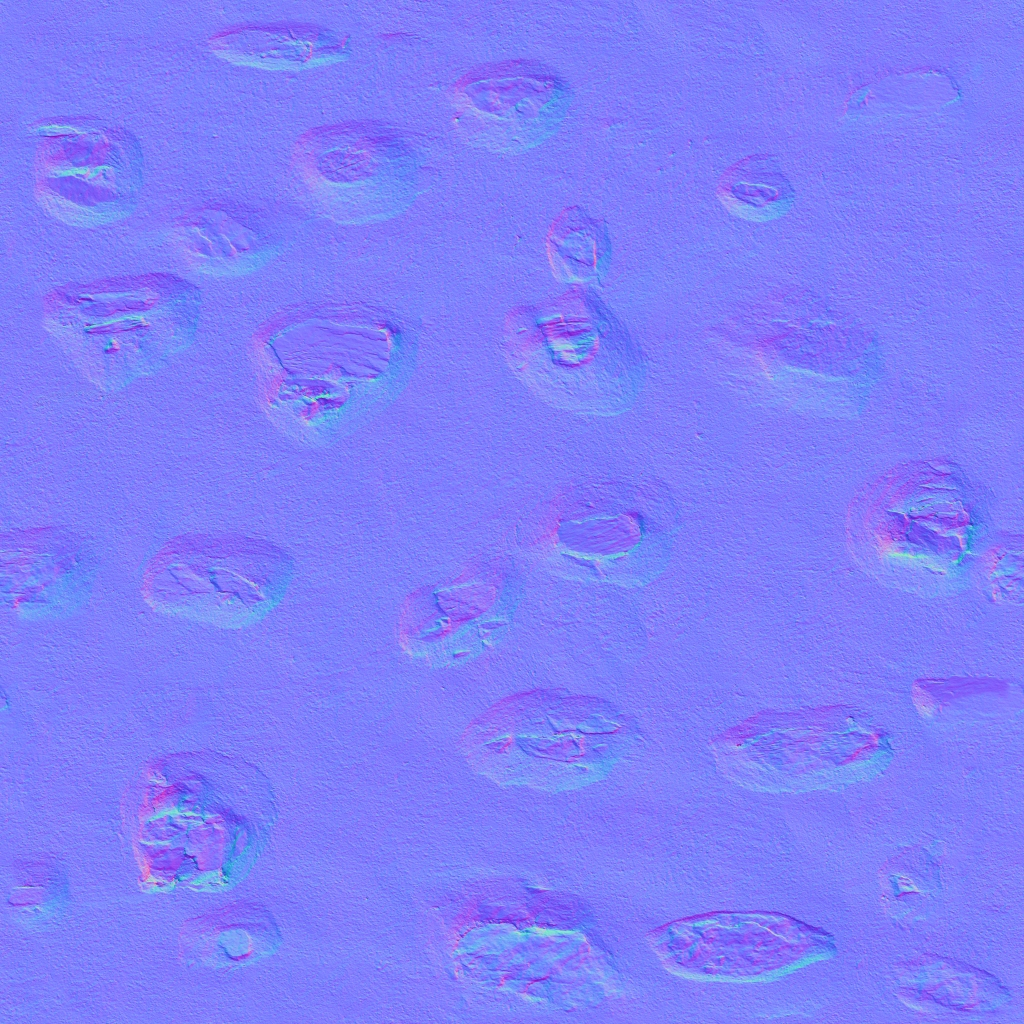
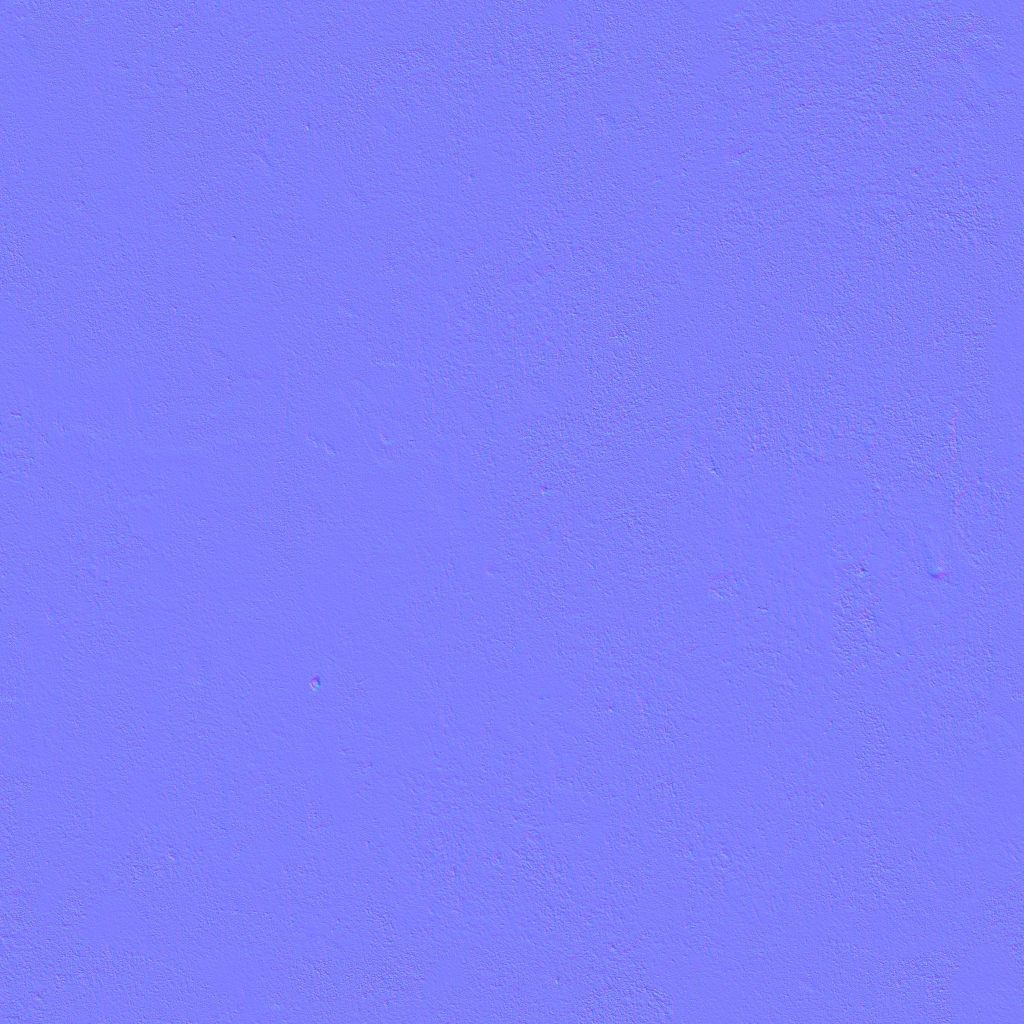
Build 272: path-traced baked light for the Yard, plain plaster walls
Claude-Session: https://claude.ai/code/session_012yvb9Zh1jGZMBeWaSw4hhX

diff --git a/index.html b/index.html
@@ -460,7 +460,7 @@ const RDCAM={on:false,off:new THREE.Vector3()},_rq1=new THREE.Quaternion(),_rq2=
 const wrapA=a=>{if(!Number.isFinite(a))return 0;if(a>20||a<-20)a%=Math.PI*2;while(a>Math.PI)a-=Math.PI*2;while(a<-Math.PI)a+=Math.PI*2;return a;};   // (Build 189) a huge angle used to loop forever (past ~1e16, subtracting 2π changes nothing) and froze the game
 let seed=1337; const srand=()=>{seed=(seed*16807)%2147483647;return (seed-1)/2147483646;};
 const Y_AXIS=V(0,1,0);
-const BUILD=271;
+const BUILD=272;
 let REV_OUT=+(new URLSearchParams(location.search).get('revout')||.62);
 const LIFE_OFF=/[?&]nolife/.test(location.search);const BRAWN_ON=!/[?&]nobrawn/.test(location.search),BRAWN_K={A:.8,B:.3,C:.55,D:.12};   // (Build 253) see brawnInit
 const WSHIFT=!/[?&]nowshift/.test(location.search);let WS_P=+(new URLSearchParams(location.search).get('wsp')||.045),WS_R=+(new URLSearchParams(location.search).get('wsr')||.035);
@@ -961,7 +961,7 @@ const _lpS=[];function lightPool(){const c=camera.position;_lpS.length=0;
   _lpS.sort((a,b)=>a._r-b._r);
   for(let i=0;i<LPOOL.length;i++){const P=LPOOL[i],L=_lpS[i];if(!L){P.intensity=0;continue;}
     const fade=i<LPOOL.length-2?1:i===LPOOL.length-2?.66:.33;   // the last slots dim, so a light changing hands far off doesn't pop
-    P.position.copy(L.position);P.color.copy(L.color);P.distance=L.distance;P.decay=L.decay||1.7;P.intensity=L.intensity*fade;}}
+    P.position.copy(L.position);P.color.copy(L.color);P.distance=L.distance;P.decay=L.decay||1.7;P.intensity=L.intensity*fade*(AMBX.L&&AMBX.L.fire!=null?AMBX.L.fire:1);}}   /* (Build 272) a preset can say how much a flame lights in its daylight: braziers were painting the Yard's shaded walls orange at noon */
 
 // house: plaster or stone walls with a real oak frame standing proud of the plaster (posts, rails, studs, braces), a stone plinth,
 // framed windows with mullions, thick thatch or tiled roof slabs with a ridge, a chimney with a cap
@@ -4451,6 +4451,25 @@ MATS.sand=std({map:TX.sand,bumpMap:TX.sandb,bumpScale:2.5,roughness:1});
 {const l=limestoneMaps(1024);TX.lime=tex(l.map);TX.limen=tex(l.normal,false);}
 MATS.gravel=std({map:TX.gravel,normalMap:TX.graveln,normalScale:new THREE.Vector2(1.2,1.2),roughness:1});MATS.roadDirt=std({map:TX.gravel,normalMap:TX.graveln,normalScale:new THREE.Vector2(1.4,1.4),color:0xa08a6c,roughness:1});
 /* (Build 270) the Yard rebuilt from scans: plaster over stone for the walls, packed earth with gravel blended in, weathered timber, boards and old tiles */
+/* ==== baked light (Build 272): a map's indirect light, path traced offline (tools/lab/bake) into a grid of ambient cubes and read here in place of the flat sky fill. The sun and its shadows stay live. */
+const NOBAKE=/[?&]nobake/.test(location.search),BAKE_U={uBk:{value:null},uBkOn:{value:0},uBkMin:{value:new THREE.Vector3()},uBkInv:{value:new THREE.Vector3(1,1,1)},uBkNY:{value:24},uBkGain:{value:+((location.search.match(/[?&]bk=([\d.]+)/)||[])[1]||1)},uBkSC:{value:4},uBkOpen:{value:1}},BAKE_TEX={};
+function bakeMat(mat){if(!mat||mat.userData.bk)return mat;mat.userData.bk=1;const prev=mat.onBeforeCompile,pk=mat.customProgramCacheKey;
+  mat.onBeforeCompile=(sh,r)=>{if(prev)prev.call(mat,sh,r);Object.assign(sh.uniforms,BAKE_U);
+    sh.vertexShader='varying vec3 vBkW;\n'+sh.vertexShader.replace('#include <worldpos_vertex>','#include <worldpos_vertex>\nvBkW=(modelMatrix*vec4(transformed,1.)).xyz;');
+    sh.fragmentShader=`precision highp sampler3D;uniform sampler3D uBk;uniform float uBkOn,uBkNY,uBkGain,uBkSC,uBkOpen;uniform vec3 uBkMin,uBkInv;varying vec3 vBkW;
+vec3 bkS(vec3 q,float k){vec3 t=texture(uBk,vec3(q.x,q.z,(k*uBkNY+clamp(q.y*uBkNY,.5,uBkNY-.5))/(6.*uBkNY))).rgb;return t*t*uBkSC;}
+vec3 bkIrr(vec3 P,vec3 n){vec3 q=clamp((P-uBkMin)*uBkInv,0.,1.);vec3 w=n*n;return w.x*bkS(q,n.x>0.?0.:1.)+w.y*bkS(q,n.y>0.?2.:3.)+w.z*bkS(q,n.z>0.?4.:5.);}
+`+sh.fragmentShader.replace('#include <lights_fragment_begin>',`#include <lights_fragment_begin>
+  float bkW=0.;vec3 bkE=vec3(0.);
+  if(uBkOn>.5){vec3 bn=normalize(inverseTransformDirection(geometryNormal,viewMatrix));vec3 bq=(vBkW-uBkMin)*uBkInv;vec3 be=min(bq,1.-bq);bkW=smoothstep(0.,.03,min(be.x,be.z))*step(bq.y,1.15);
+    bkE=bkIrr(vBkW+bn*.28,bn)*uBkGain;irradiance=mix(irradiance,bkE,bkW);}`).replace('#include <lights_fragment_maps>',`#include <lights_fragment_maps>
+  iblIrradiance*=1.-bkW;radiance*=mix(1.,clamp(dot(bkE,vec3(.3333))/uBkOpen,0.,1.),bkW);`);};
+  mat.customProgramCacheKey=()=>'bk|'+mat.uuid+'|'+(pk?pk.call(mat):'');mat.needsUpdate=true;return mat;}
+function bakeLoad(b){BAKE_U.uBkOn.value=0;if(!b||NOBAKE)return;const key=mapKey,set=t=>{if(key!==mapKey)return;BAKE_U.uBk.value=t;BAKE_U.uBkMin.value.set(...b.min);BAKE_U.uBkInv.value.set(1/b.size[0],1/b.size[1],1/b.size[2]);BAKE_U.uBkNY.value=b.n[1];BAKE_U.uBkSC.value=b.sc;BAKE_U.uBkOpen.value=b.open||1;BAKE_U.uBkOn.value=1;};
+  if(BAKE_TEX[b.f])return set(BAKE_TEX[b.f]);const im=new Image();im.onload=()=>{const [NX,NY,NZ]=b.n,cv=document.createElement('canvas');cv.width=im.width;cv.height=im.height;const cx=cv.getContext('2d',{willReadFrequently:true});cx.drawImage(im,0,0);
+    const src=cx.getImageData(0,0,im.width,im.height).data,D=6*NY,out=new Uint8Array(NX*NZ*D*4),cols=b.cols||12;
+    for(let L=0;L<D;L++){const c=L%cols,r=(L/cols)|0;for(let z=0;z<NZ;z++){const so=((r*NZ+z)*im.width+c*NX)*4;out.set(src.subarray(so,so+NX*4),(L*NZ+z)*NX*4);}}
+    const t=new THREE.Data3DTexture(out,NX,NZ,D);t.format=THREE.RGBAFormat;t.type=THREE.UnsignedByteType;t.minFilter=t.magFilter=THREE.LinearFilter;t.wrapS=t.wrapT=t.wrapR=THREE.ClampToEdgeWrapping;t.unpackAlignment=1;t.needsUpdate=true;BAKE_TEX[b.f]=t;set(t);};im.src=b.f;}
 const YARD2=!/[?&]oldyard/.test(location.search),YARD_U={uRock:{value:null},uHasRock:{value:0},uDirt:{value:null},uHasDirt:{value:0}};
 MATS.yardPlaster=std({map:TX.lime,color:0xd8ccb6,roughness:.95});MATS.yardGround=std({map:TX.gravel,roughness:1});MATS.yardTimber=std({color:0x8a7a68,roughness:.9});MATS.yardBoards=std({color:0x8c8072,roughness:.9});MATS.yardTile=std({color:0x9a6a52,roughness:.9});
 MATS.lime=std({map:TX.lime,normalMap:TX.limen,normalScale:new THREE.Vector2(1.1,1.1),roughness:.95,side:THREE.DoubleSide});
@@ -4480,13 +4499,11 @@ function weather(m,kind){const pre=m.onBeforeCompile;m.onBeforeCompile=(sh,r)=>{
       diffuseColor.rgb=mix(diffuseColor.rgb,vec3(rl*rl*2.6)*vec3(.7,.62,.53),gp*uHasRock*.85);diffuseColor.rgb*=1.-.16*smoothstep(.7,.8,gn)*(1.-gp);
       float cr=smoothstep(.5,.47,abs(wn(vWW.xz*1.3+90.)-.5)*8.+wn(vWW.xz*14.)*.6)*smoothstep(.55,.7,wfbm(vWW.xz*.13+3.));diffuseColor.rgb*=1.-.3*cr;
       float damp=smoothstep(.6,.82,wfbm(vWW.xz*.16+50.));diffuseColor.rgb*=1.-.16*damp;
-      float wd=17.2-max(abs(vWW.x),abs(vWW.z));diffuseColor.rgb*=mix(.55,1.,smoothstep(-.1,1.5,wd))*mix(.86,1.,smoothstep(1.,4.5,wd)); }`:kind==='yardwall'?`#include <map_fragment>
-    { float h=vWW.y;vec2 wp=vec2(vWW.x+vWW.z,vWW.y);diffuseColor.rgb=mix(vec3(dot(diffuseColor.rgb,vec3(.3,.5,.2))),diffuseColor.rgb,.7);diffuseColor.rgb*=mix(.72,1.1,wfbm(wp*.3))*mix(.9,1.06,wfbm(wp*1.7+9.));
-      float pat=smoothstep(.68,.73,wfbm(wp*.42+70.)+.14*wn(wp*4.));diffuseColor.rgb=mix(diffuseColor.rgb,diffuseColor.rgb*diffuseColor.rgb*vec3(.86,.8,.72)*1.3,pat*.7);   /* where the plaster has come away the stone and old mortar show darker */
-      float dr=smoothstep(.4,.8,wn(vec2(wp.x*1.3,3.)))*smoothstep(.6,5.,h)*(.3+.7*wn(vec2(wp.x*9.,h*.35)));diffuseColor.rgb=mix(diffuseColor.rgb,diffuseColor.rgb*vec3(.42,.39,.35),dr*.75);   /* rain runs down from under the hoarding */
-      float fine=smoothstep(.62,.9,wn(vec2(wp.x*26.,h*.9)))*smoothstep(1.,4.6,h);diffuseColor.rgb*=1.-.22*fine;
-      float base=smoothstep(2.6,.2,h)*(.4+.6*wfbm(wp*1.3));diffuseColor.rgb=mix(diffuseColor.rgb,diffuseColor.rgb*vec3(.5,.46,.4),base*.8);   /* splashed and damp at the foot */
-      diffuseColor.rgb*=1.2*mix(1.,.6,smoothstep(3.6,4.9,h))*mix(.62,1.,smoothstep(0.,.45,h)); }`:kind==='ground'?`#include <map_fragment>
+      float wd=17.2-max(abs(vWW.x),abs(vWW.z));diffuseColor.rgb*=mix(.8,1.,smoothstep(-.1,1.2,wd)); }`:kind==='yardwall'?`#include <map_fragment>
+    { float h=vWW.y;vec2 wp=vec2(vWW.x+vWW.z,vWW.y);diffuseColor.rgb*=mix(.86,1.06,wfbm(wp*.22))*mix(.95,1.04,wfbm(wp*1.3+9.));   /* (Build 272) a plain limewashed plaster: broad uneven tone, thin rain runs under the hoarding, damp and splashed earth at the foot */
+      float dr=smoothstep(.5,.85,wn(vec2(wp.x*1.1,3.)))*smoothstep(.8,4.8,h)*(.35+.65*wn(vec2(wp.x*7.,h*.3)));diffuseColor.rgb=mix(diffuseColor.rgb,diffuseColor.rgb*vec3(.6,.57,.52),dr*.5);
+      float fine=smoothstep(.7,.95,wn(vec2(wp.x*22.,h*.6)))*smoothstep(2.,4.8,h);diffuseColor.rgb*=1.-.12*fine;
+      float base=smoothstep(1.5,.1,h)*(.4+.6*wfbm(wp*1.3));diffuseColor.rgb=mix(diffuseColor.rgb,diffuseColor.rgb*vec3(.62,.55,.45),base*.7); }`:kind==='ground'?`#include <map_fragment>
     { float big=wfbm(vWW.xz*.07),mid=wfbm(vWW.xz*.45+11.),r=length(vWW.xz);
       diffuseColor.rgb*=mix(.74,1.12,big)*mix(.88,1.07,mid);diffuseColor.rgb=mix(diffuseColor.rgb,diffuseColor.rgb*vec3(.86,.8,.72),smoothstep(.55,.8,big)*.5);   // damp, darker brown patches
       float trod=smoothstep(14.,3.,r)*(.5+.5*wn(vWW.xz*.9));diffuseColor.rgb*=1.-.14*trod;   // the middle is packed down by feet
@@ -4503,12 +4520,13 @@ function weather(m,kind){const pre=m.onBeforeCompile;m.onBeforeCompile=(sh,r)=>{
   sh.uniforms.uWBase={value:0};sh.fragmentShader='uniform float uWBase;\n'+sh.fragmentShader;if(kind==='yardground'){Object.assign(sh.uniforms,YARD_U);sh.fragmentShader='uniform sampler2D uRock,uDirt;uniform float uHasRock,uHasDirt;\n'+sh.fragmentShader;}};
   const k0=m.customProgramCacheKey?m.customProgramCacheKey():'';m.customProgramCacheKey=()=>k0+'|w'+kind;return m;}
 for(const k of ['lime','limeDark','stone','stoneLight','ashlar','beam','plaster0','plaster1','plaster2','woodPale','wood','tile'])if(MATS[k])weather(MATS[k],'wall');
-weather(MATS.yardGround,'yardground');MATS.yardGround.envMapIntensity=.5;weather(MATS.yardPlaster,'yardwall');for(const k of ['yardTimber','yardBoards','yardTile'])weather(MATS[k],'wall');
+weather(MATS.yardGround,'yardground');for(const k of ['yardPlaster','yardGround','yardTimber','yardBoards','yardTile','stone','beam','woodPale','propWood'])if(MATS[k])setTimeout(()=>bakeMat(MATS[k]),0);
+MATS.yardGround.envMapIntensity=.5;weather(MATS.yardPlaster,'yardwall');for(const k of ['yardTimber','yardBoards','yardTile'])weather(MATS[k],'wall');
 for(const k of ['gravel','sand'])if(MATS[k]){weather(MATS[k],'ground');MATS[k].envMapIntensity=.5;}   /* (Build 269) less sky fill on the fighting floor, so the sun's shadows are dark and hard-edged on it */
 weather(MATS.meadow,'meadow');
 // photo-scanned surfaces (CC0, Poly Haven; see CREDITS.md). They replace the drawn ones as they arrive; if they can't load, the drawn ones stay.
 // Each set is colour, normal and a packed map (red = ambient occlusion, green = roughness). rep = tiles per unit of the geometry's UVs.
-const PHOTO={yardwall:{mats:{yardPlaster:{rep:.36,ns:2.2,col:0xfff8ee}}},yardwood:{mats:{yardTimber:{rep:.7,ns:1.3,col:0xa59684}}},yardboard:{mats:{yardBoards:{rep:.55,ns:1.2,col:0xb4a898}}},yardroof:{mats:{yardTile:{rep:.5,ns:1.4,col:0xd8c8bc}}},
+const PHOTO={yardwall:{mats:{yardPlaster:{rep:.3,ns:1.,col:0xf6eedc}}},yardwood:{mats:{yardTimber:{rep:.7,ns:1.3,col:0xa59684}}},yardboard:{mats:{yardBoards:{rep:.55,ns:1.2,col:0xb4a898}}},yardroof:{mats:{yardTile:{rep:.5,ns:1.4,col:0xd8c8bc}}},
   ground:{mats:{gravel:{rep:4,ns:1.3,col:0xece6dc},yardGround:{rep:4,ns:1.9,col:0xf6f2ea}}},
   plaster:{mats:{plaster0:{rep:.75,ns:1.1,col:0xf4ecdc},plaster1:{rep:.75,ns:1.1,col:0xf0d8ae},plaster2:{rep:.75,ns:1.1,col:0xd8d2c6}}},   // village houses (rep: the geometry's UV unit / the scan's real size)
   timber:{mats:{beam:{rep:3,ns:1.2,col:0x6a5644},wood:{rep:2,ns:1.1,col:0xb09a82},woodPale:{rep:2,ns:1.1,col:0xd2c4b0},propWood:{rep:2,ns:1.1,col:0xa88a6c},palisade:{rep:3,ns:1.2,col:0x6e5c4c}}},thatch:{mats:{thatch:{rep:1.5,ns:1.4,col:0xe6c088},cryptStraw:{rep:1,ns:1.6,col:0xf0d088}}},
@@ -4796,11 +4814,11 @@ LIGHTS.mill={fog:0x2c261e,dens:.008,top:0x3f6fae,mid:0x8fb0cf,hor:0xe2d6bf,glow:
 LIGHTS.crypt={fog:0x1a120b,dens:.042,top:0x050404,mid:0x050404,hor:0x050404,glow:0x000000,glowDir:[0,1,0],stars:0,hs:0x566482,hg:0x15171c,hi:.055,sun:0x000000,si:0,dir:[.2,.9,.2],moon:false,exp:1.3,cool:.62,halo:.16,shR:10,shMap:1024,
   env:[[0,'#060505'],[.5,'#100c0a'],[1,'#050404']]};
 LIGHTS.cryptDeep={...LIGHTS.crypt,fog:0x0a0e16,dens:.036,hs:0x5c6a86,hg:0x12141a,hi:.065,cool:.9,env:[[0,'#06080c'],[.5,'#0c1018'],[1,'#040506']]};
-LIGHTS.yard={...LIGHTS.day,hs:0xb9c6d2,hg:0xcabfae,hi:.6,sun:0xfff3e2,si:4.9,cool:.22,exp:1.04,fog:0xd9d6cf};   /* (Build 271) the Yard's own daylight: a whiter sun, far less of the orange grade, and the pale ground's light thrown back up under the hoarding and onto the lower walls */
+LIGHTS.yard={...LIGHTS.day,hs:0xb9c6d2,hg:0xcabfae,hi:.6,sun:0xfff3e2,si:4.9,cool:.22,exp:1.04,fog:0xd9d6cf,fire:.06};   /* (Build 271) the Yard's own daylight: a whiter sun, far less of the orange grade, and the pale ground's light thrown back up under the hoarding and onto the lower walls */
 for(const k in LIGHTS)LIGHTS[k].envTex=makeEnv(LIGHTS[k].env);
 const MAPS={
   village:{name:'Bloodmoor village',build:()=>buildWorld(),MAP:74,arena:0,zoneR:80,spawn:[6,52],spacing:11,lootR:66,loot:44,fighters:12,light:'dusk'},
-  arena:{shR:26,entry:{x:0,z:-15.8,dx:0,dz:1},name:'The Yard',build:()=>buildYard(),MAP:17,arena:0,zoneR:24,spawn:[3,11],spacing:4.5,lootR:12,loot:16,fighters:8,light:YARD2?'yard':'day'},
+  arena:{shR:26,entry:{x:0,z:-15.8,dx:0,dz:1},name:'The Yard',build:()=>buildYard(),MAP:17,arena:0,zoneR:24,spawn:[3,11],spacing:4.5,lootR:12,loot:16,fighters:8,light:YARD2?'yard':'day',bake:YARD2?{f:'assets/bake/arena.png',min:[-19.2,.1,-19.2],size:[38.4,9.6,38.4],n:[96,24,96],cols:12,sc:4,open:.65}:null},
   colosseum:{shR:40,entry:{x:0,z:-31,dx:0,dz:1},name:'The Arena',build:()=>buildArena(),MAP:44,arena:33.4,zoneR:37,spawn:[4,28],spacing:7.5,lootR:30,loot:24,fighters:10,light:'day'},
   tavern:{shR:36,entry:{x:0,z:-10.2,dx:0,dz:1},name:'The Tavern',build:()=>buildTavern(),MAP:16,arena:0,zoneR:30,spawn:[1.5,8],spacing:2.8,lootR:11,ceil:5.6,loot:0,fighters:8,light:'tavern',brawl:true},
   ship:{entry:{x:-17,z:0,dx:1,dz:0},name:'Mutiny',build:()=>buildShip(),MAP:50,arena:0,zoneR:30,spawn:[1,8],spacing:3,lootR:17,loot:18,fighters:8,light:'sea',noRing:true,spot:(i,n,k)=>[(-15+30*(shipSlot(i,n)+.5)/n)+(Math.random()-.5)*(k>100?2:.8),(Math.random()-.5)*(k>100?5:3.2)]},
@@ -4820,7 +4838,7 @@ function applyLighting(k){
   hemi.color.setHex(L.hs);hemi.groundColor.setHex(L.hg);hemi.intensity=L.hi;moon.color.setHex(L.sun);moon.intensity=L.si;moon.shadow.autoUpdate=L.si>0;moon.shadow.needsUpdate=true;moonDir.set(...L.dir).normalize();moonSprite.visible=L.moon;
   renderer.toneMappingExposure=L.exp*1.2;scene.environment=L.envTex;grade.uniforms.uCool.value=L.cool;haloMat.opacity=L.halo;
 }
-function loadMap(id){const m=MAPS[id];curMap=id;mapKey++;if(LAMP_SH)LAMP_SH.visible=id==='crypt';clearWorld();MAP=m.MAP;ARENA_R=m.arena;m.build();dynWorld();applyLighting(m.light);buildMinimap();}
+function loadMap(id){const m=MAPS[id];curMap=id;mapKey++;if(LAMP_SH)LAMP_SH.visible=id==='crypt';clearWorld();MAP=m.MAP;ARENA_R=m.arena;m.build();dynWorld();applyLighting(m.light);bakeLoad(m.bake);buildMinimap();}
 
 // ================================================================ effects (blood, decals, sparks, embers)
 const BLOOD_N=1800;
@@ -13403,6 +13421,6 @@ window.__clientData=clientData;window.__net={netSnap,clientFrame};window.__grabT
 window.__fdetail=(f,dt)=>fighterDetail(f,dt);window.__addWound=(B,ci,P,ax,d,k)=>addWound(B,ci,P,ax,d,k);Object.defineProperty(window,'__camMode',{get:()=>camMode,configurable:true});Object.defineProperty(window,'__grid',{get:()=>grid,configurable:true});window.__camClear=(a,b)=>{camPull=1;camClear(a,b,1/60);return camPull;};window.__frameFn=t=>{window.__inManual=true;try{frame(t);}finally{window.__inManual=false;}};
 window.__yardArm=(f,i)=>yardArm(f,i);window.__yardCycle=()=>yardCycle();window.__YARD=YARD;window.__YARD_W=YARD_W;Object.defineProperty(window,'__RUN',{get:()=>RUN,configurable:true});
 window.__relook=(f,look)=>{const pal=f.pal;f.model.parent.remove(f.model);f.model=SkeletonUtils.clone(GLTF.scene);f.model.scale.multiplyScalar(FSCALE);f.root.add(f.model);f.mats=[];f.look=look;dressModel(f.model,look,pal,f.mats);f.bones=indexBones(f.model);f.skins=[];f.model.traverse(o=>{if(o.isSkinnedMesh)f.skins.push(o);});f.mixer=new THREE.AnimationMixer(f.model);const clip=n=>GLTF.animations.find(a=>a.name===n);f.acts={idle:f.mixer.clipAction(clip('idle')),walk:f.mixer.clipAction(clip('walk')),run:f.mixer.clipAction(clip('run'))};for(const k in f.acts){const a=f.acts[k];a.play();a.setEffectiveWeight(k==='idle'?1:0);}};
-window.__game={makePool,addDecal,WH,wheelOpen,wheelClose,wheelSel,aimMove:(a,b)=>aimMove(a,b),cryptBuild:(d,sd)=>{CRYPT_DEPTH=d;CRYPT_SEED=sd;loadMap('crypt');return CRYPT;},heldLid:f=>heldLid(f),get AMBX(){return AMBX},get RAIN(){return RAIN},dentArmor:(...a)=>dentArmor(...a),get DYN(){return DYN},get RP(){return RP},hsHit:(...a)=>hsHit(...a),get PF_P(){return PF_P},get HS_P(){return HS_P},ladderClimb:(f,d)=>ladderClimb(f,d),collide:(...a)=>collide(...a),addBox:(...a)=>addBox(...a),testLoot:(id,x,z)=>{const def=WEAPONS[id],s=new Sword(def);s.reset(V(x,.05,z),V(1,0,0));s.edge.set(0,0,1);s.free=true;s.age=0;freeSwords.push(s);const it={kind:"weapon",def,sword:s,halo:null};loot.push(it);return it;},cryptKickDoor:(...a)=>cryptKickDoor(...a),cryptCeil:(...a)=>cryptCeil(...a),findLedge,skelDress,zombieDress,speak,skeletonParts,skullGeo,shroudGeo,shroudMat,get CRYPT(){return CRYPT},cryptTrapOpen,cryptGround,bark,get camMode(){return camMode},LAMPS,lampAdd,lampTake,lampStep,cryptUse,cryptDescend,cryptLeave,cryptOpen,cryptPlan,get LAMP_SH(){return LAMP_SH},get CAREER(){return CAREER},set CAREER(v){CAREER=v},careerUI,careerSave,careerRank,CAREER_RANKS,CAREER_SHOP,NAV,navPath,navClear,navBlocked,navBuild,get mxBad(){return MX_BAD},skinRay,capBones,get warmMs(){return warmShaders.ms},get latheFixed(){return lathe.fixed||0},HANDLING,roadDir,roadX,roadUse,get ROAD(){return ROAD},__road:()=>ROAD&&ROAD.cart,get world(){return world},MATS,raidChests,raidUse,raidCarts,cartPt,ladderUse,LADDERS,ladPt,wallAhead,get RAID(){return RAID},raidScore,setStum(a,b){STUM_MAX=a;STUM_RELIEF=b},setWind(k){WIND_K=k},setRL(a,b){RL1=a;RL2=b},setSW2(a,b){SW2_OUT=a;SW2_UP=b},setThr(a,b,c,d){THR_LEAN=a;THR_EXT=b;if(c!=null)LUNGE_V=c;if(d!=null)THR_K=d},THREE,aimMove,hsBindRel,HS_SEG,get HSW(){return HSW},HS_P,hsFreeAll,setHS(v){HSBODY=v;if(!v)hsFreeAll();},embed,lodge,letGo,garbLegStep,get MILL(){return MILL},groundY,millGround,millSluice,flourBlast,swayStep,dynBreak,SHARDS,sting,get SHIP(){return SHIP},vilProps:{trough,hay,streetTorch,fence,cart,stall},Sword,DYN,dynLoad,dynStep,get PRW(){return PRW},PROX,mdl,placeModel,propBreak,bridgeCollapse,initAudio,musicTick,MUS,THEMES,decals,bloodMesh,updateBlood,spawnBlood,shipWave,get SEA(){return seaMat},TOWER,towerIgnite,towerCollapse,RUBBLE,houseCollapse,get SHIP(){return SHIP},shipIn,TAV,get HOUSES(){return HOUSES},get SCAF(){return SCAF},FLOORS,houseIgnite,houseCollapse,get mapDirty(){return mapDirty},get master(){return master},get AC2(){return AC},AMB,get AC(){return AC},clientEvents,resolveHit,clash,armourGap,PROPS,get PIT(){return PIT},grateKick,MUS,KICK,get MODEHUD(){return MODEHUD},get END(){return END},get RUN(){return RUN},NET,PT,EV,get PW(){return PW},get physOn(){return !!PW},camera,input,loadMap,spawnMatch,V,fighters,debris,loot,scene,renderer,composer,torchLights,sim,logic,WEAPONS,ARMOR,pickUp,spawnWeaponLoot,spawnArmorLoot,get player(){return player},startGame,zone,get state(){return state}};
+window.__game={get world(){return world;},get moonDir(){return moonDir;},makePool,addDecal,WH,wheelOpen,wheelClose,wheelSel,aimMove:(a,b)=>aimMove(a,b),cryptBuild:(d,sd)=>{CRYPT_DEPTH=d;CRYPT_SEED=sd;loadMap('crypt');return CRYPT;},heldLid:f=>heldLid(f),get AMBX(){return AMBX},get RAIN(){return RAIN},dentArmor:(...a)=>dentArmor(...a),get DYN(){return DYN},get RP(){return RP},hsHit:(...a)=>hsHit(...a),get PF_P(){return PF_P},get HS_P(){return HS_P},ladderClimb:(f,d)=>ladderClimb(f,d),collide:(...a)=>collide(...a),addBox:(...a)=>addBox(...a),testLoot:(id,x,z)=>{const def=WEAPONS[id],s=new Sword(def);s.reset(V(x,.05,z),V(1,0,0));s.edge.set(0,0,1);s.free=true;s.age=0;freeSwords.push(s);const it={kind:"weapon",def,sword:s,halo:null};loot.push(it);return it;},cryptKickDoor:(...a)=>cryptKickDoor(...a),cryptCeil:(...a)=>cryptCeil(...a),findLedge,skelDress,zombieDress,speak,skeletonParts,skullGeo,shroudGeo,shroudMat,get CRYPT(){return CRYPT},cryptTrapOpen,cryptGround,bark,get camMode(){return camMode},LAMPS,lampAdd,lampTake,lampStep,cryptUse,cryptDescend,cryptLeave,cryptOpen,cryptPlan,get LAMP_SH(){return LAMP_SH},get CAREER(){return CAREER},set CAREER(v){CAREER=v},careerUI,careerSave,careerRank,CAREER_RANKS,CAREER_SHOP,NAV,navPath,navClear,navBlocked,navBuild,get mxBad(){return MX_BAD},skinRay,capBones,get warmMs(){return warmShaders.ms},get latheFixed(){return lathe.fixed||0},HANDLING,roadDir,roadX,roadUse,get ROAD(){return ROAD},__road:()=>ROAD&&ROAD.cart,get world(){return world},MATS,raidChests,raidUse,raidCarts,cartPt,ladderUse,LADDERS,ladPt,wallAhead,get RAID(){return RAID},raidScore,setStum(a,b){STUM_MAX=a;STUM_RELIEF=b},setWind(k){WIND_K=k},setRL(a,b){RL1=a;RL2=b},setSW2(a,b){SW2_OUT=a;SW2_UP=b},setThr(a,b,c,d){THR_LEAN=a;THR_EXT=b;if(c!=null)LUNGE_V=c;if(d!=null)THR_K=d},THREE,aimMove,hsBindRel,HS_SEG,get HSW(){return HSW},HS_P,hsFreeAll,setHS(v){HSBODY=v;if(!v)hsFreeAll();},embed,lodge,letGo,garbLegStep,get MILL(){return MILL},groundY,millGround,millSluice,flourBlast,swayStep,dynBreak,SHARDS,sting,get SHIP(){return SHIP},vilProps:{trough,hay,streetTorch,fence,cart,stall},Sword,DYN,dynLoad,dynStep,get PRW(){return PRW},PROX,mdl,placeModel,propBreak,bridgeCollapse,initAudio,musicTick,MUS,THEMES,decals,bloodMesh,updateBlood,spawnBlood,shipWave,get SEA(){return seaMat},TOWER,towerIgnite,towerCollapse,RUBBLE,houseCollapse,get SHIP(){return SHIP},shipIn,TAV,get HOUSES(){return HOUSES},get SCAF(){return SCAF},FLOORS,houseIgnite,houseCollapse,get mapDirty(){return mapDirty},get master(){return master},get AC2(){return AC},AMB,get AC(){return AC},clientEvents,resolveHit,clash,armourGap,PROPS,get PIT(){return PIT},grateKick,MUS,KICK,get MODEHUD(){return MODEHUD},get END(){return END},get RUN(){return RUN},NET,PT,EV,get PW(){return PW},get physOn(){return !!PW},camera,input,loadMap,spawnMatch,V,fighters,debris,loot,scene,renderer,composer,torchLights,sim,logic,WEAPONS,ARMOR,pickUp,spawnWeaponLoot,spawnArmorLoot,get player(){return player},startGame,zone,get state(){return state}};
 Object.defineProperty(window.__game,'simTime',{get:()=>simTime});Object.defineProperty(window.__game,'hitStopT',{get:()=>hitStopT});
 </script>

diff --git a/tools/lab/bake/pack.py b/tools/lab/bake/pack.py
@@ -1,0 +1,19 @@
+# Packs trace.mjs's output into the PNG the game loads: python3 pack.py bake.bin out.png [skyGain bounceGain scale]
+import sys,struct,numpy as np
+from PIL import Image
+f=open(sys.argv[1],'rb').read();NX,NY,NZ=struct.unpack('<3I',f[:12]);B=struct.unpack('<6f',f[12:36])
+d=np.frombuffer(f[40:],dtype=np.float32).reshape(NY,NZ,NX,37).copy()
+kS=float(sys.argv[3]) if len(sys.argv)>3 else 1.;kB=float(sys.argv[4]) if len(sys.argv)>4 else 1.;SC=float(sys.argv[5]) if len(sys.argv)>5 else 4.
+import os;T=np.array([float(x) for x in os.environ.get('SKYTINT','1,1,1').split(',')],np.float32);bn=d[...,18:36].reshape(NY,NZ,NX,6,3);sat=float(os.environ.get('BNCSAT','1'));g=bn.mean(axis=-1,keepdims=True);bn=(g+(bn-g)*sat).reshape(NY,NZ,NX,18);E=kS*d[...,:18]*np.tile(T,6)+kB*bn;ok=(d[...,36]<.2).astype(np.float32)
+def nb(a):   # sum over the six neighbours (edges repeat)
+    p=np.pad(a,((1,1),(1,1),(1,1))+((0,0),)*(a.ndim-3),mode='edge');return p[2:,1:-1,1:-1]+p[:-2,1:-1,1:-1]+p[1:-1,2:,1:-1]+p[1:-1,:-2,1:-1]+p[1:-1,1:-1,2:]+p[1:-1,1:-1,:-2]
+E*=ok[...,None]
+for it in range(12):   # cells inside solid things take their light from the open cells beside them, so surfaces never sample black
+    s=nb(E);w=nb(ok);fill=(ok==0)&(w>0);E[fill]=s[fill]/w[fill][:,None];ok[fill]=1
+s=nb(E)+2*E;E=s/8.   # a light smoothing takes the sampling noise out
+print('cells',NX,NY,NZ,'bounds',B,'max',E.max(),'open-top mean',E[-1,:,:,6:9].mean(axis=(0,1)),'filled',int(ok.sum()),'of',ok.size)
+img=np.clip(np.sqrt(np.clip(E,0,None)/SC),0,1);cols=12;rows=(6*NY+cols-1)//cols;A=np.zeros((rows*NZ,cols*NX,3),np.uint8)
+for k in range(6):
+    for y in range(NY):
+        L=k*NY+y;r,c=divmod(L,cols);A[r*NZ:(r+1)*NZ,c*NX:(c+1)*NX]=(img[y,:,:,k*3:k*3+3]*255+.5).astype(np.uint8)
+Image.fromarray(A).save(sys.argv[2],optimize=True)

diff --git a/CLAUDE.md b/CLAUDE.md
@@ -267,3 +267,4 @@ Measure feel changes instead of guessing: tip speed (`player.sword.tipVel`), han
 - **Build 269 (the player's pick from the Build 268 list: step into blows, arms out, a wide deep stance, reeling, weapons that carry the body, wilder bots, the yard's ground and light, bright plate):** *Step into the blow* (`STEP_IN` .5, `?stepin=`; `this._stp`, in the feet-target block of `animate`): in a committed cut (not a thrust, reverse grip or stuck blade) once the hand is moving, the foot on the side the cut comes from passes forward (a cut travelling right to left brings the right foot through; a chop brings the weapon-side foot), the hips go ~9 cm forward onto it, and it comes back 0.5 s after; the plant code turns the moved target into a real step. Fades out by 2.4 m/s. *Arms out* (`REACH_K` .85, `?reachk=`; `_exW`): in a committed swing the hand target is carried out from its shoulder toward 93% of the arm (end of `handTarget0`, before the reach and two-hand clamps). The player's full-box swings already reached 95%; bots' and small swings sat at ~58%. *Stance* (`ST_DEEP` .34, was .26; `ST_WIDE` 1.3; stagger .18/−.15): wider and deeper standing in guard, still easing off on the move; `LOOSE_DIP` .1. *Reeling* (`REEL` 1, `?reel=0`): a struck bot is driven back up to 3.3 m/s (was 2.4), staggers longer, is shoved harder off balance, his knees give on a blow of 14+ (`crouchK`, `pbd.buckle`), and everyone doubles over a hurt further (`_pain` × .31 rad, was .17). *Weapons carry the body:* a committed swing's drag on the balance grows with the weapon's felt mass (up to 2.4× for a poleaxe), so a missed heavy swing pulls its man after it into stumble steps. *Bots* (`A.wild` 0–1 a man, `?nowild`): wilder men circle wider, now and then just run in swinging (`rushT` from the waiting distance), strike from further out, feint less, run to three blows, back-pedal longer and come again sooner. Bot duels (5 a weapon, old → new): arming hit speed 7.8 → 11.6 m/s and damage a hit 13.5 → 26, clashes 68 → 440; longsword strikes a minute 17 → 27; all fights decided, about as long. *Ground and light* (`weather(...,'ground')`, the Yard's gravel and the Arena's sand): paler and a third less orange, ragged patches of dark broken stone painted on it, drag scuffs; less sky fill on the floor (`envMapIntensity` .5) and in `LIGHTS.day` (`hi` .52, was .74; sun 0xffe4c4 at 4.5), so the sun's shadows are dark and hard. *Plate* (`steelFitMat` colour 0xa2a4a8, roughness .2, env 1.3; `surfDetail` plate/gothic ×.98 with lighter tarnish, less grime and rust): bright silver that shows the body's turn; it read as lead. Scratch `reach.mjs` (the player's scripted cut: hand reach, foot and hip travel), `stiffnum.mjs`; strips `strip.mjs` and `pose.mjs`. Not done: the stone patches are painted, not loose stones (the player took scanned rocks out in Build 96).
 - **Build 270 (the Yard rebuilt, step 1 of a "one place to a full standard" slice: set first, then one fighter and armour, baked light last):** `YARD2` (`?oldyard` is the old yard). The free scan library has no medieval structures beyond the fort kit, so the set is modelled timber and masonry with scanned surfaces. New Poly Haven scans in `assets/tex` (`PHOTO` roles `yardwall` plaster over stone, `yarddirt` packed earth, `yardwood` weathered timber, `yardboard` grey planks, `yardroof` old tiles; `yardrock_d.jpg` is loaded on its own into `YARD_U.uRock`). Walls: plastered boxes (`MATS.yardPlaster`, `weather` kind `yardwall`: tone, rain runs from under the hoarding, damp splash at the foot, shade under the hoarding) on a stone footing, with a timber hoarding jettied 1.5 m out along the top of all four (beams every 2 m on raking braces, board floor, boarded breastwork, posts, eave plate, rafters, tile roof); the fort-kit walls, corner towers, the old gallery and the gate hood are not built. Ground: `MATS.yardGround` (`weather` kind `yardground`: the earth scan greyed, trodden middle, damp patches, patches of broken stone blended in from the second scan by world noise, darker toward the wall foot). `hsFence` (Yard and Pit) is heavier: 20 cm posts with pointed heads, two thick rails, a capping rail, a raking prop and foot block at each post, in `yardTimber`. Four banners hang from the hoarding (were twelve). Colliders unchanged.
 - **Build 271 (the Yard, after the player found Build 270 flatter and less detailed than before):** the ground is the gravel scan again for its grain (`PHOTO.ground.mats.yardGround`, normals 1.9), greyed and pale, with the packed-earth scan (`YARD_U.uDirt`) blended in where it is trodden, darker heaps of broken stone from the rock scan, hairline cracks and damp; walls have stronger relief (normals 2.2), plaster fallen away in patches, heavier rain runs, buttresses with sloped heads and beam ends. *Light:* the Yard has its own preset `LIGHTS.yard` (a whiter sun 0xfff3e2 at 4.9, the orange grade mostly off `cool` .22, a pale ground colour on the hemisphere light as bounce under the hoarding); it shares the day HDRI (copied when it loads). Other daylight maps are unchanged. Note `LIGHTS.day.hi` is set to .68 when the HDRI arrives, whatever the table says.
+- **Build 272 (baked light, path traced; the Yard's wall skin):** *Baked light* (the `==== baked light` block: `BAKE_U`, `bakeMat(mat)`, `bakeLoad(b)`; `?nobake`, `?bk=` gain): a map can carry `bake:{f,min,size,n,cols,sc,open}` in `MAPS`. The file is a PNG atlas of a 3D grid of ambient cubes (six directions a cell, 0.4 m cells, square-root encoded ×`sc`), read into a `Data3DTexture`; materials passed through `bakeMat` (the Yard's plaster, ground, timber, boards, tiles, `stone`, `beam`, `woodPale`, `propWood`) take their indirect light from it inside the grid (sampled 28 cm off the surface along the normal) in place of the hemisphere fill and the sky map's diffuse, and dim the sky's reflection by how much sky the cell sees. The sun and its shadow map stay live, and fighters are not on it yet (they still take the flat fill). With no bake (every other map) those materials behave as before. *Making one* (`tools/lab/bake`): `MAP=arena OUT=geo.bin node export.mjs` saves the map's static triangles with a flat albedo each (colour × average texture; skips see-through, alpha-cut, instanced and skinned things) and the sun's direction; `GEO=geo.bin OUT=bake.bin CELL=.4 RAYS=192 node trace.mjs` path traces it on every core with three-mesh-bvh (per cell 192 rays over the sphere: a miss is sky, a hit is sunlight bounced off that surface with a shadow ray plus one more bounce; sky light and bounced sun are kept apart; ~3 min for the Yard's 96×24×96 cells on two cores); `SKYTINT=1.15,1.04,.88 BNCSAT=.75 python3 pack.py bake.bin assets/bake/arena.png .55 1 4` fills cells inside solid things from their open neighbours, smooths, mixes sky and bounce by the given gains and writes the atlas (so the balance can be changed without tracing again). **Rebake when the Yard's set changes** (walls, hoarding, sun direction). *Flames in daylight:* a lighting preset's `fire` scales the pooled flame lights (`LIGHTS.yard.fire` .06): the braziers were what painted the Yard's shaded walls orange at noon. *Wall skin:* the plaster-with-stones scan and its painted fallen patches read as blotches; the walls are a plain limewashed plaster now (Poly Haven Painted Plaster Wall, `yardwall_*`) with broad uneven tone, thin rain runs and a damp foot. `__game.world`, `moonDir`.

diff --git a/CREDITS.md b/CREDITS.md
@@ -153,4 +153,4 @@ Scanned and modelled props and scenery from [Poly Haven](https://polyhaven.com),
 - Wooden Chair 01: [WoodenChair_01](https://polyhaven.com/a/WoodenChair_01)
 
 ## The Yard (Build 270)
-Poly Haven (CC0, polyhaven.com): Plaster Stone Wall 01, Dirt Floor, Rocky Trail, Rough Wood, Wood Planks Grey, Roof Tiles 14.
+Poly Haven (CC0, polyhaven.com): Painted Plaster Wall, Dirt Floor, Rocky Trail, Rough Wood, Wood Planks Grey, Roof Tiles 14.
